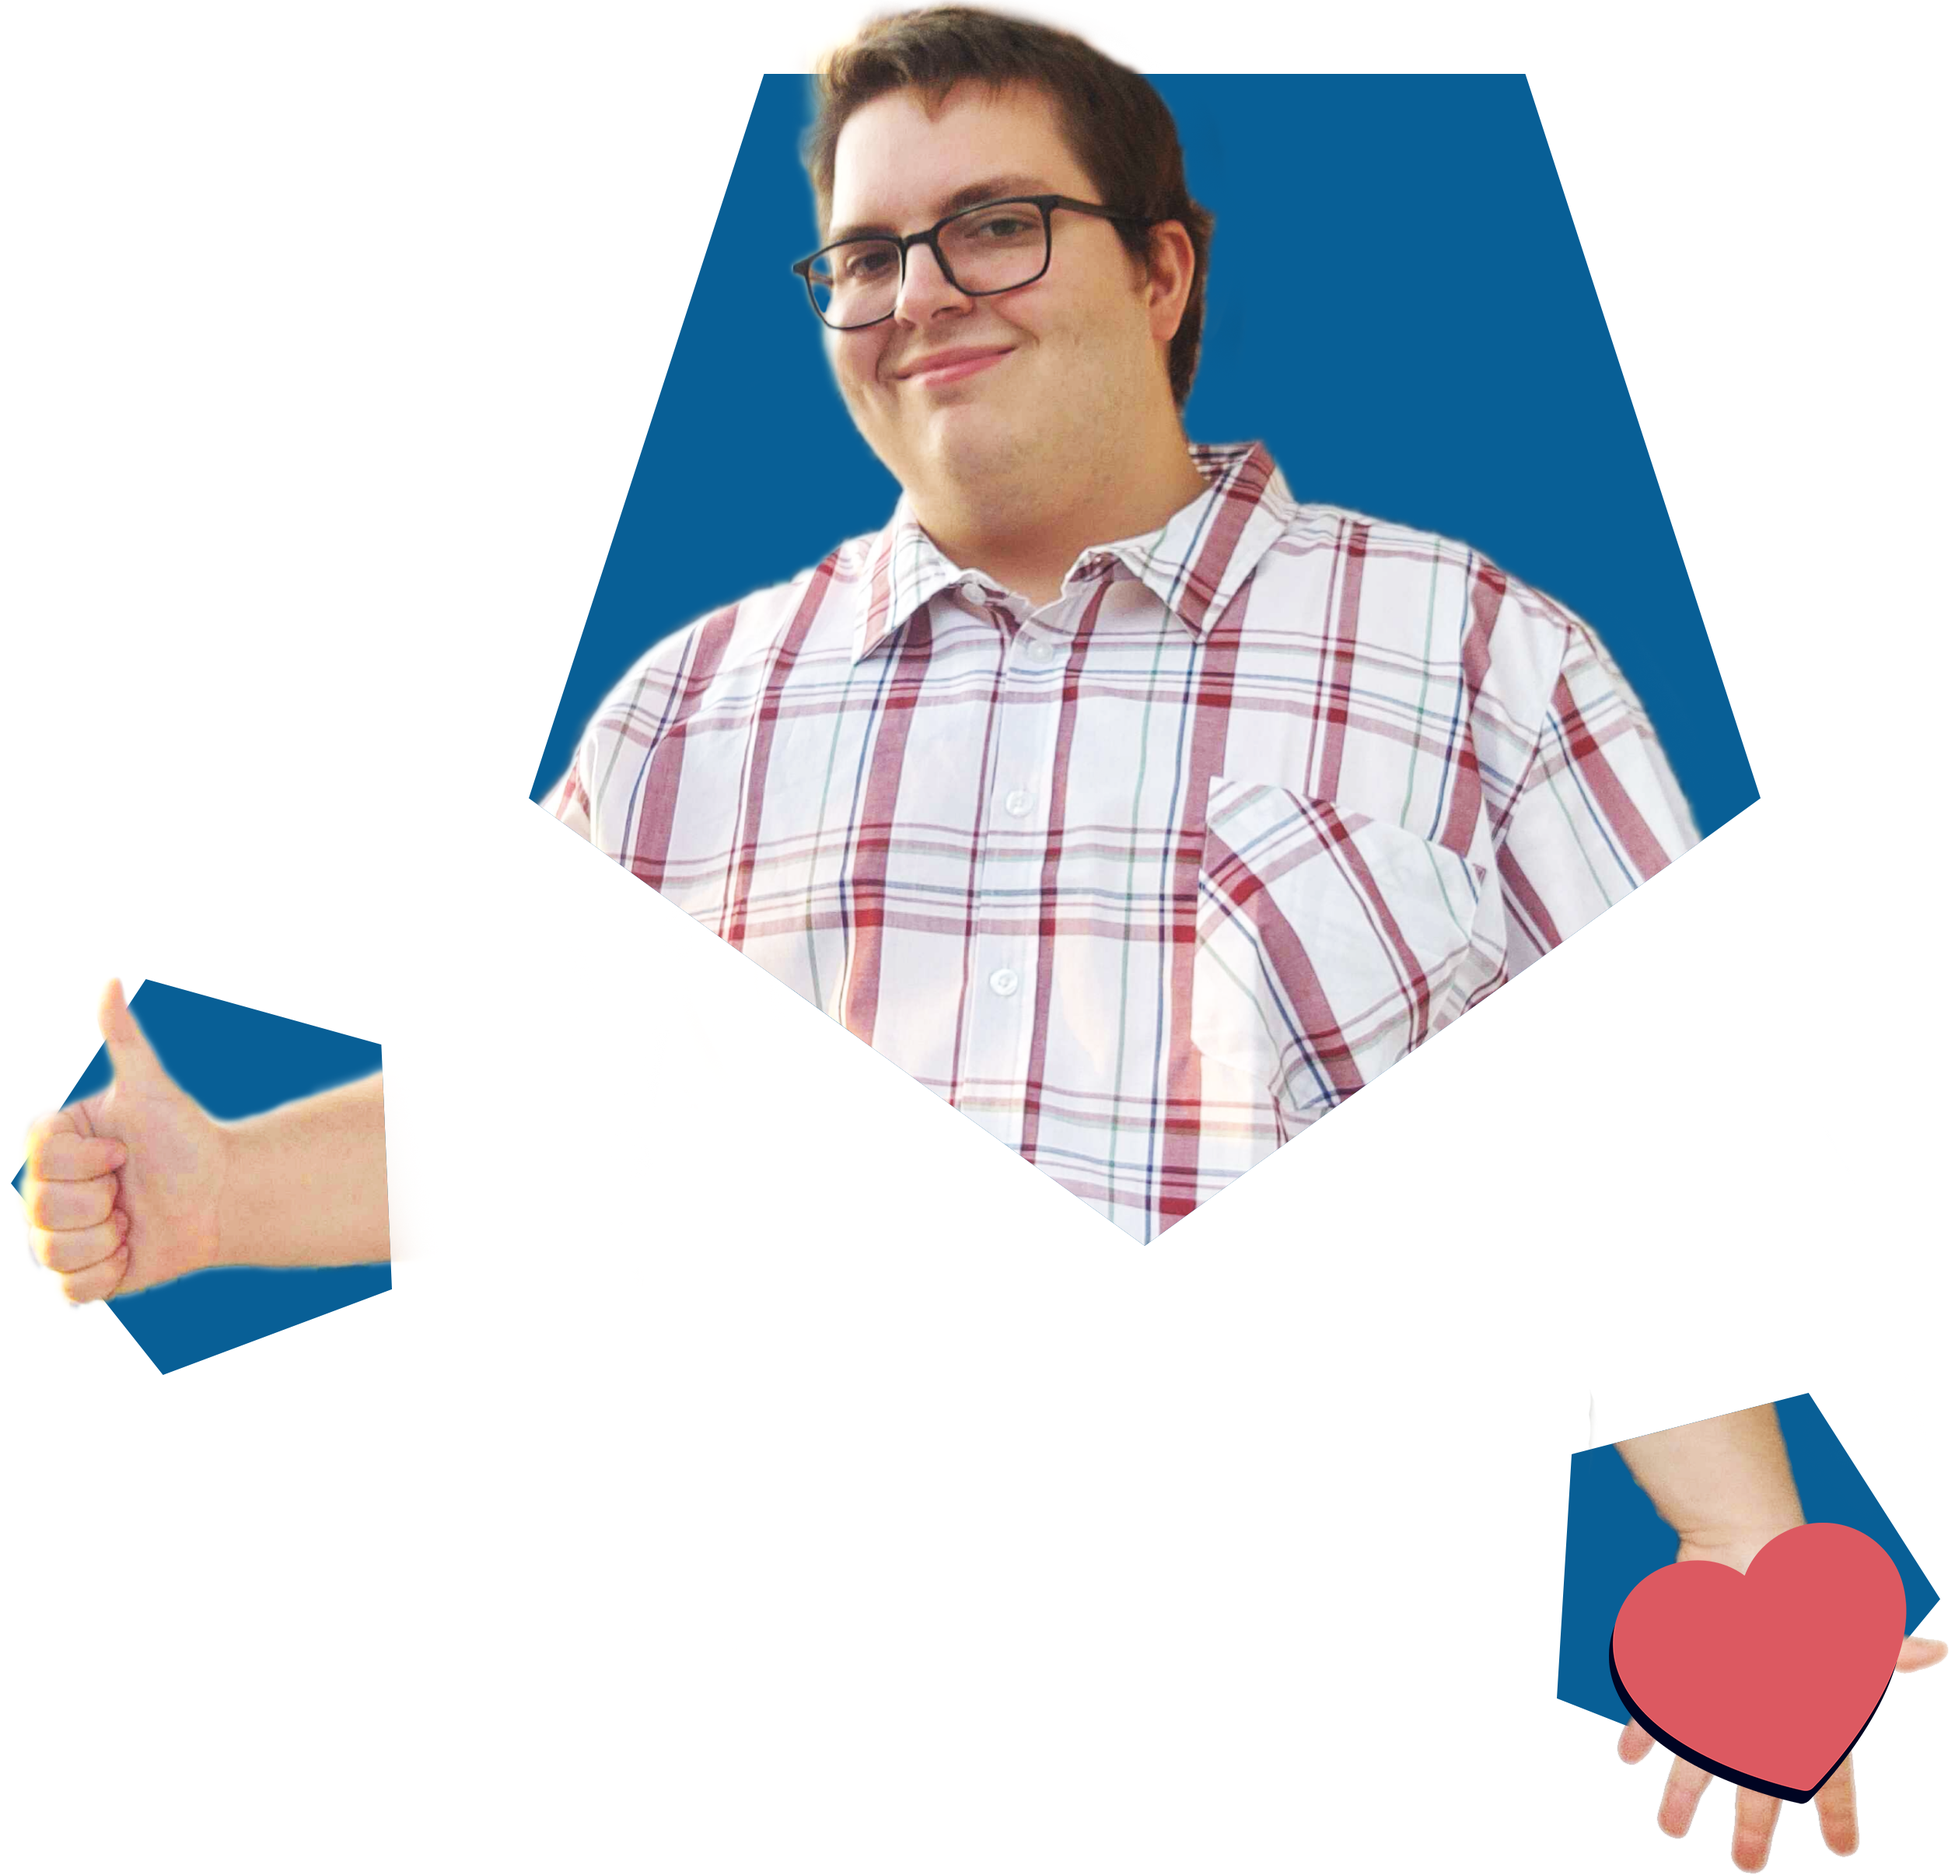
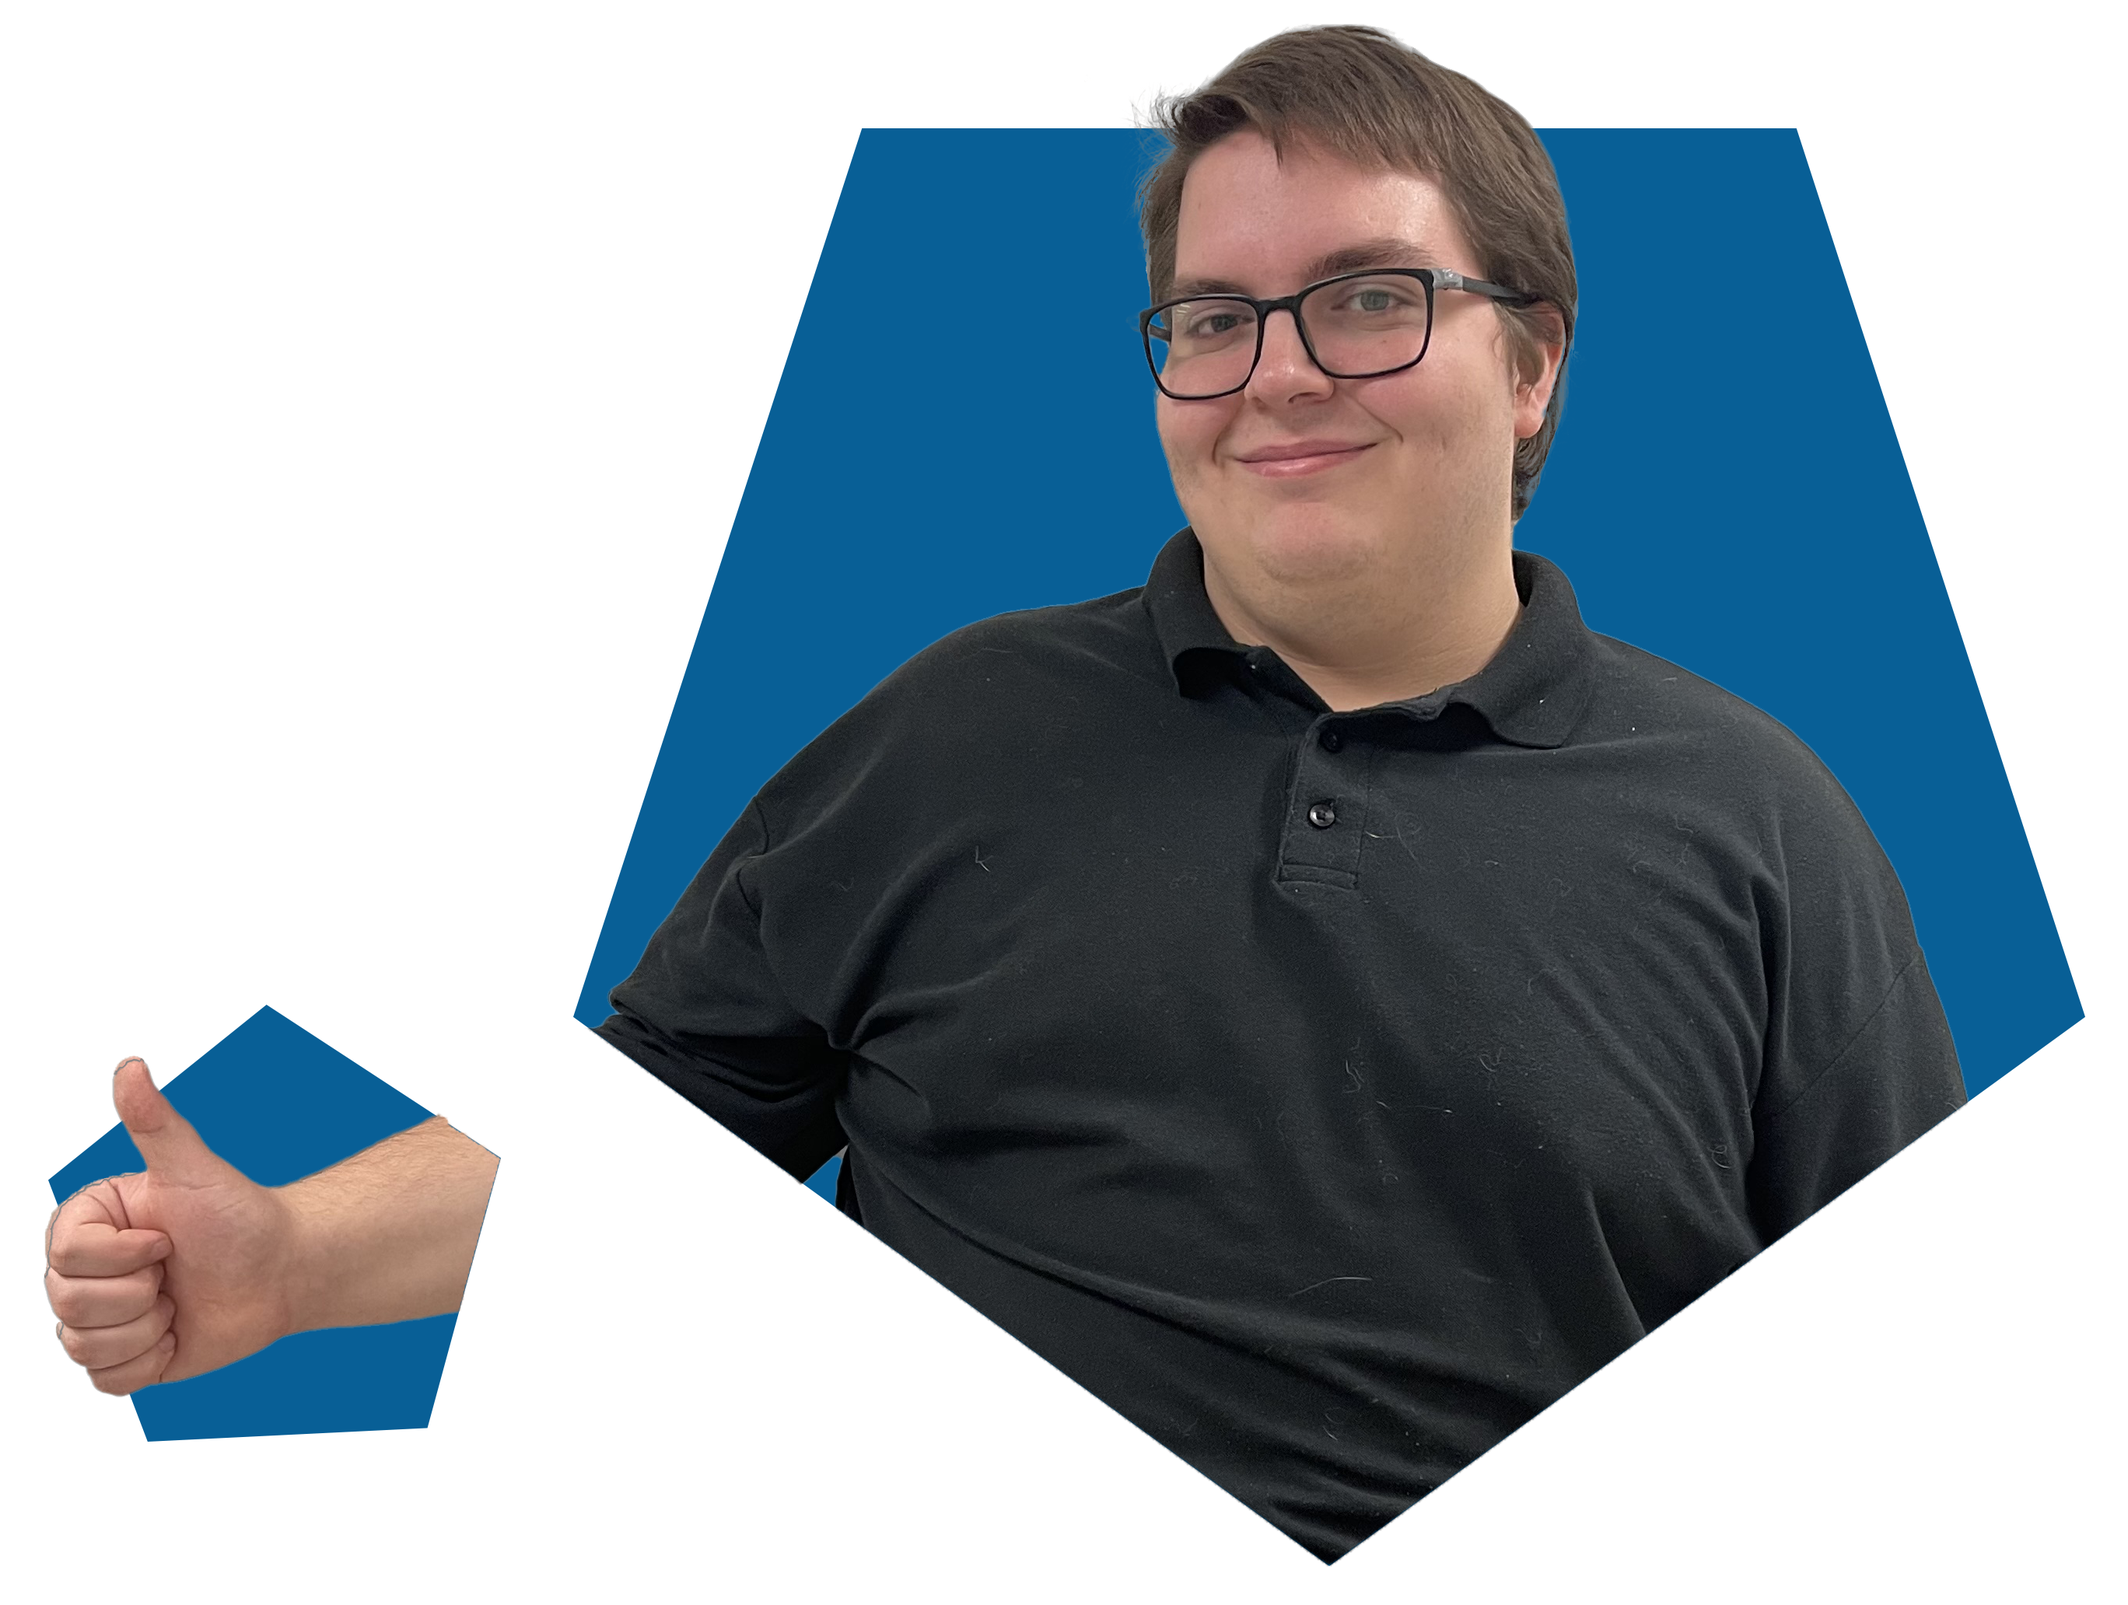
Nouvelle photo + Modale fait

diff --git a/src/gabaritVidAtim.html b/src/gabaritVidAtim.html
@@ -50,7 +50,7 @@
     </div>
 </section>
 
-<section class="steps">
+<section class="steps" data-component="Modale">
     <div class="wrapper">
         <!-- Slider main container -->
         <div class="swiper" data-component="Carousel">
@@ -200,7 +200,7 @@
                         </div>
                     </div>
                     <div class="slide_media" data-scrolly="zoom">
-                        <video autoplay muted loop>
+                        <video autoplay muted loop class="has_modale">
                             <source src="/assets/videos/GifMontageVideoAtim.mp4" type="video/mp4" />
                             <p>
                                 Votre navigateur ne prend pas en charge les vidéos HTML5. Voici
@@ -238,12 +238,12 @@
 </section>
 
 <div class="modale">
-    <div class="modale_container">
+    <div class="modale_container" data-scrolly="zoom">
+        <div class="modale_media"></div>
         <p>
             Le média ne s'affiche pas ou <br />
             tournez votre téléphone en mode paysage
         </p>
-        <img src="" alt="" class="modale_media" />
     </div>
 </div>
 

diff --git a/src/scripts/components/Modale.js b/src/scripts/components/Modale.js
@@ -3,10 +3,42 @@ export default class Modale {
     this.element = element;
 
     this.medias = this.element.querySelectorAll('.has_modale');
-    console.log(this.medias);
+    this.modale = document.querySelector('.modale');
+    this.modaleMediaContainer = this.modale.querySelector('.modale_media');
 
     this.init();
   }
 
-  init() {}
+  init() {
+    this.applyEvents();
+  }
+
+  applyEvents() {
+    //apply event to modale
+    this.modale.addEventListener('click', this.closeModale.bind(this));
+
+    //apply click events to medias
+    for (let i = 0; i < this.medias.length; i++) {
+      const element = this.medias[i];
+      element.addEventListener('click', this.openModale.bind(this));
+    }
+  }
+
+  openModale(event) {
+    const mediaClone = event.target.cloneNode(true);
+
+    mediaClone.style.cursor = 'pointer';
+
+    this.modaleMediaContainer.innerHTML = '';
+
+    this.modaleMediaContainer.appendChild(mediaClone);
+
+    this.modale.classList.toggle('modale_active');
+  }
+
+  closeModale() {
+    this.modale.classList.toggle('modale_active');
+
+    this.modaleMediaContainer.innerHTML = '';
+  }
 }

diff --git a/src/gabaritWebjam.html b/src/gabaritWebjam.html
@@ -158,7 +158,7 @@
                         </div>
                     </div>
                     <div class="slide_media" data-scrolly="zoom">
-                        <video autoplay muted loop>
+                        <video autoplay muted loop class="has_modale">
                             <source src="/assets/videos/codeWJmp4.mp4" type="video/mp4" />
                             <p>
                                 Votre navigateur ne prend pas en charge les vidéos HTML5. Voici
@@ -210,7 +210,7 @@
                         </div>
                     </div>
                     <div class="slide_media" data-scrolly="zoom">
-                        <video autoplay muted loop>
+                        <video autoplay muted loop class="has_modale">
                             <source src="/assets/videos/ResponsiveWJmp4.mp4" type="video/mp4" />
                             <p>
                                 Votre navigateur ne prend pas en charge les vidéos HTML5. Voici

diff --git a/src/styles/components/modale.scss b/src/styles/components/modale.scss
@@ -1,4 +1,9 @@
+.has_modale {
+    cursor: zoom-in;
+}
+
 .modale {
+    cursor: pointer;
     display: none;
     top: 0;
     left: 0;
@@ -20,6 +25,7 @@
         background-color: var(--color-white);
         border-radius: 30px;
         padding: var(--spacing-md);
+        z-index: 3;
 
         p {
             position: absolute;
@@ -31,7 +37,24 @@
     }
 
     .modale_media {
+        display: flex;
+        justify-content: center;
+        align-items: center;
         width: 100%;
+        height: 100%;
+        overflow: hidden;
         z-index: 1;
+
+        img,
+        video {
+            object-fit: cover;
+            width: 100%;
+            max-height: 100%;
+            display: block;
+        }
+    }
+
+    &.modale_active {
+        display: flex;
     }
 }

diff --git a/src/styles/components/about.scss b/src/styles/components/about.scss
@@ -94,7 +94,7 @@
         @media screen and (max-width: $breakpoint-xs) {
             .photo_inline {
                 margin-right: calc(var(--spacing-xl) * -1.25);
-                margin-bottom: calc(var(--spacing-lg) * -2);
+                margin-bottom: calc(var(--spacing-md) * -1);
             }
 
             .about_content {

diff --git a/src/styles/components/carousel.scss b/src/styles/components/carousel.scss
@@ -77,6 +77,7 @@
             width: 100%;
             height: 100%;
             object-fit: cover;
+            display: block;
         }
     }
 
